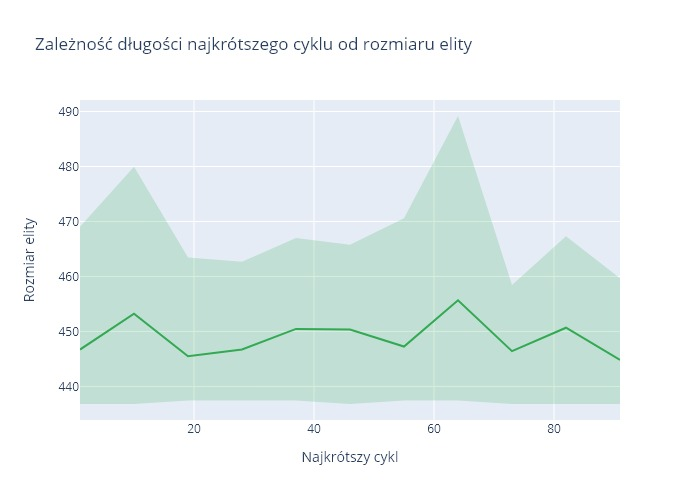
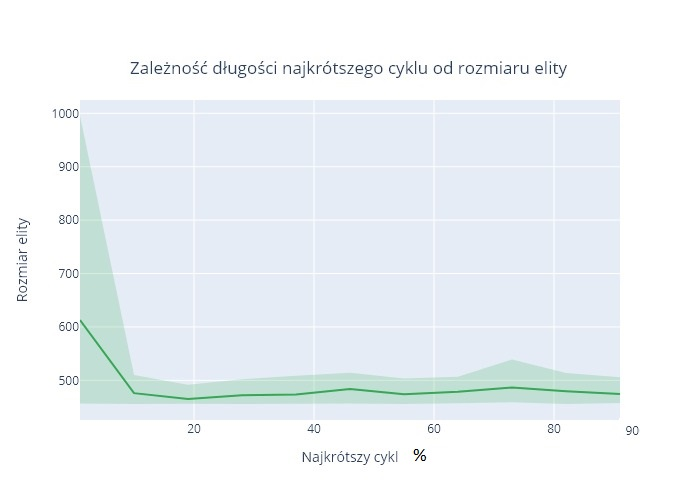
f

diff --git a/main.py b/main.py
@@ -360,7 +360,7 @@ def experiment(
     elite_size_percent=10,
     mutation_probability=0.35,
     tournament_size=2,
-    iteration_count_end=100,
+    iteration_count_end=20,
     plot_best_values=None,
     plot_best_values_repeated=None,
 ):
@@ -746,7 +746,7 @@ if __name__ == "__main__":
     #     print(c)
     
     # investigate_population_size(10, 2011, 50, points)
-    # investigate_tournament_size(2, 10, 1, points)
+    # investigate_tournament_size(2, 12, 1, points)
     investigate_elitarism(1, 100, 9, points)
     # investigate_mutation(0.01, 1.01, 0.05, points)
     # investigate_iteration_count_end(10,410,50, points)
